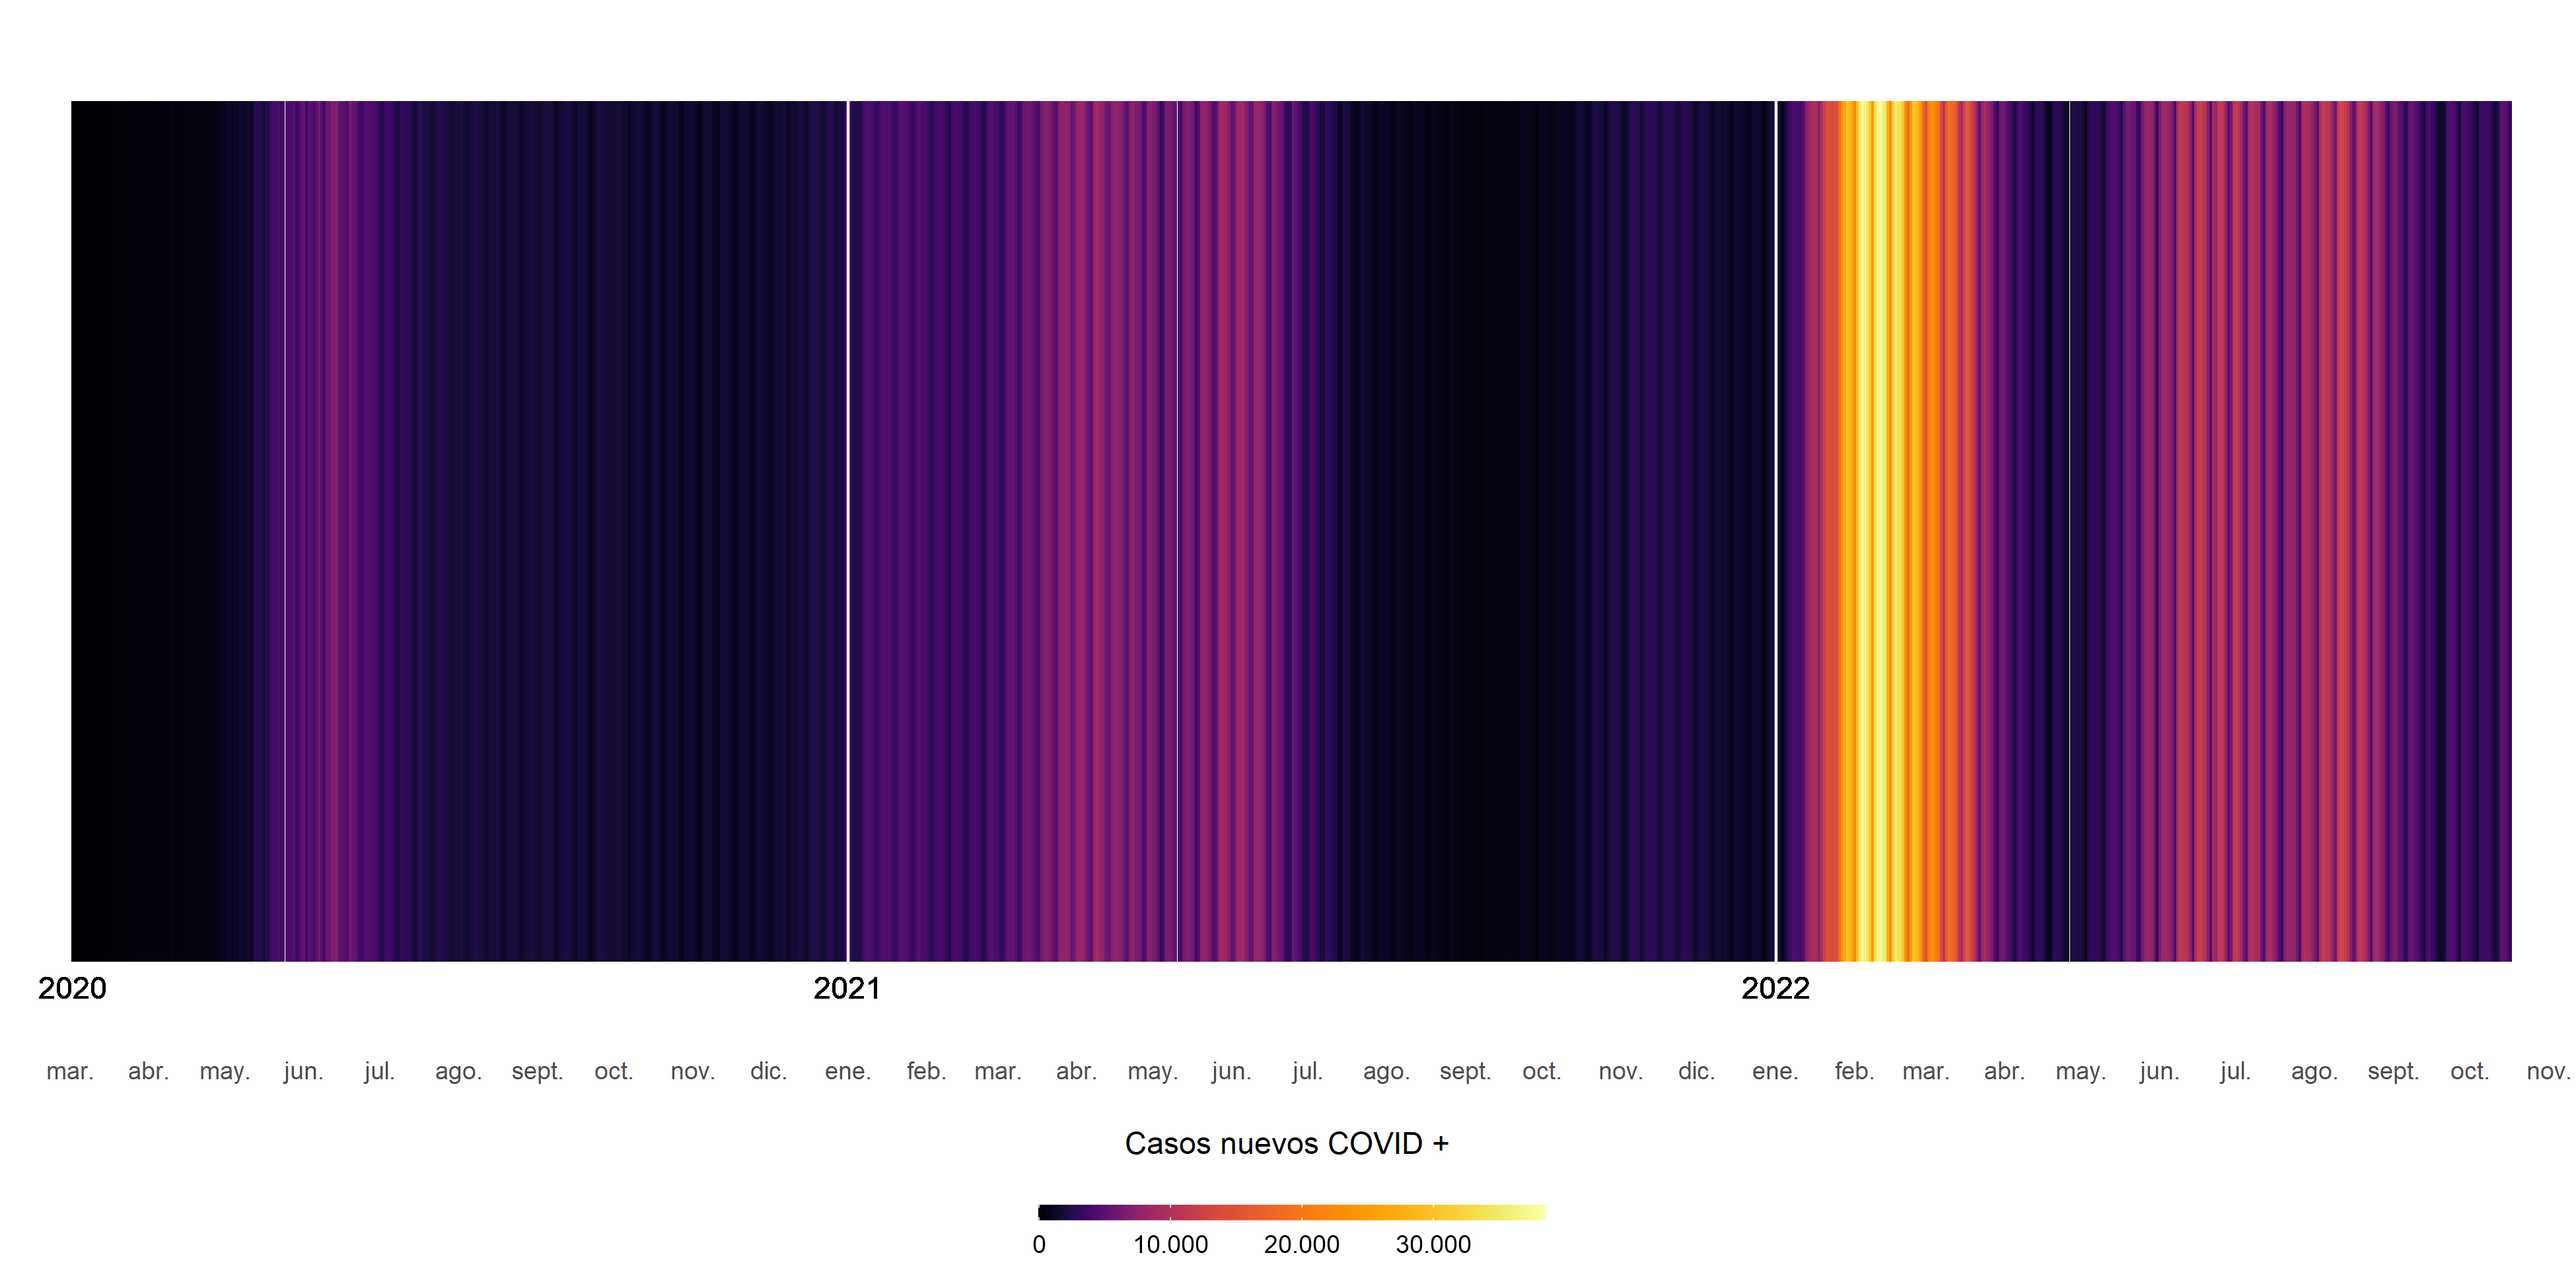
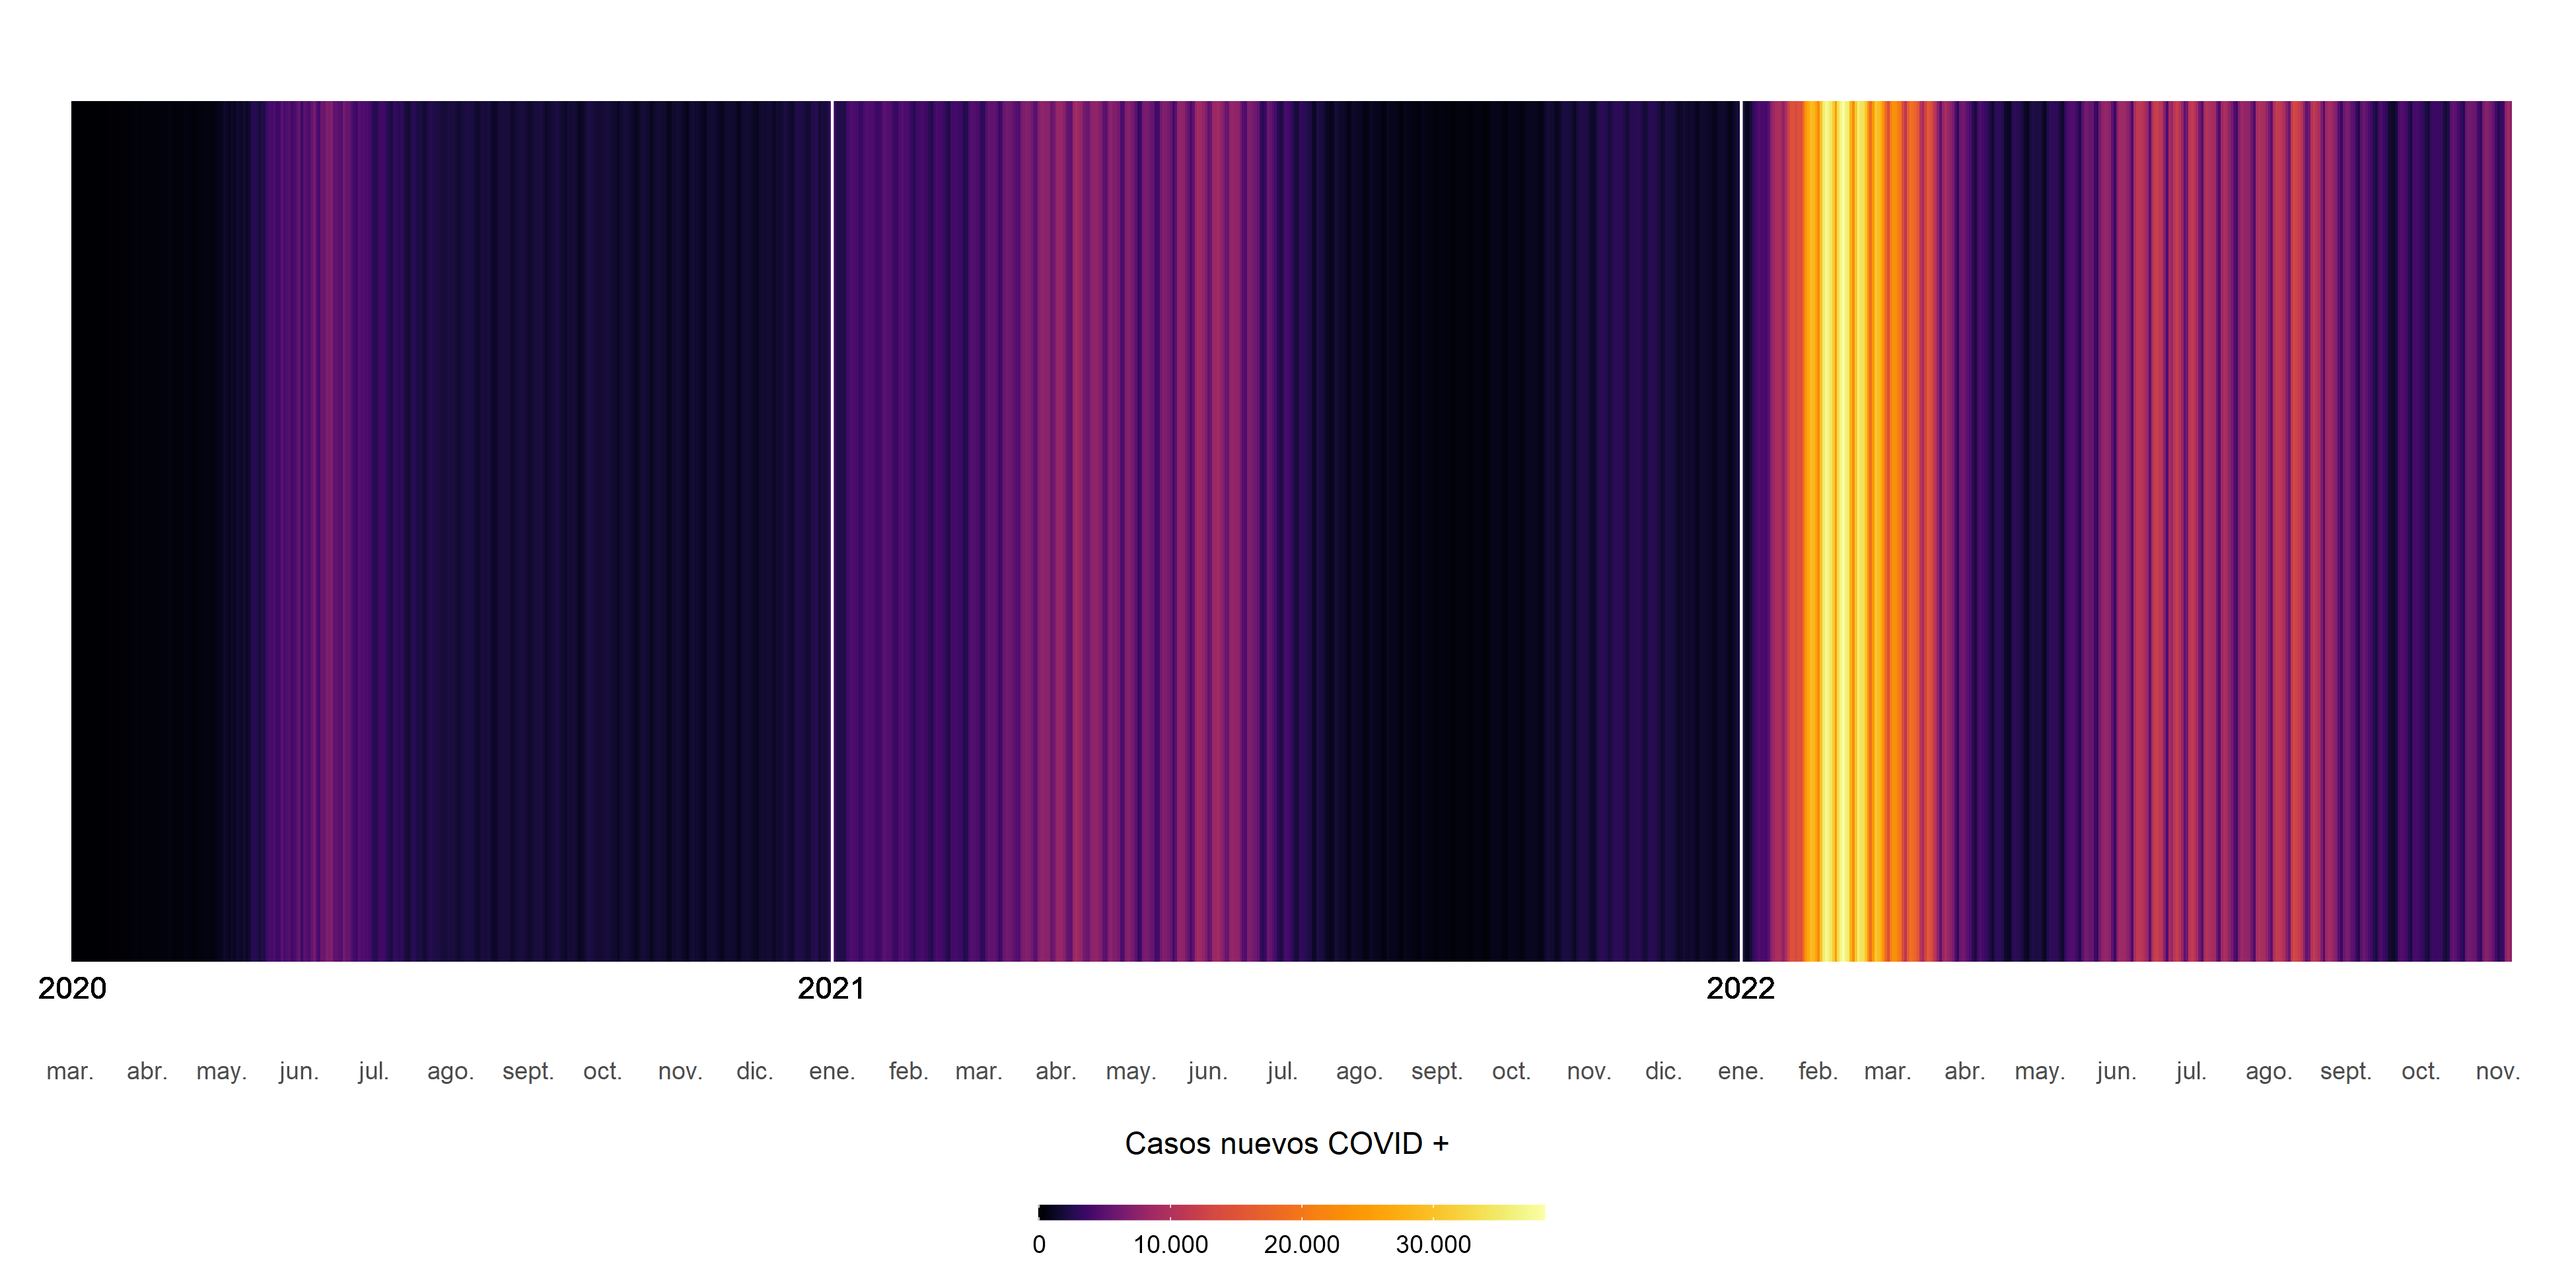
F5 07_11

diff --git a/README.md b/README.md
@@ -1,6 +1,6 @@
 # covid_scl
 
-COVID's situation in Chile. **Last update: 18-10-2022**
+COVID's situation in Chile. **Last update: 7-11-2022**
 
 ## COVID stripes
 
